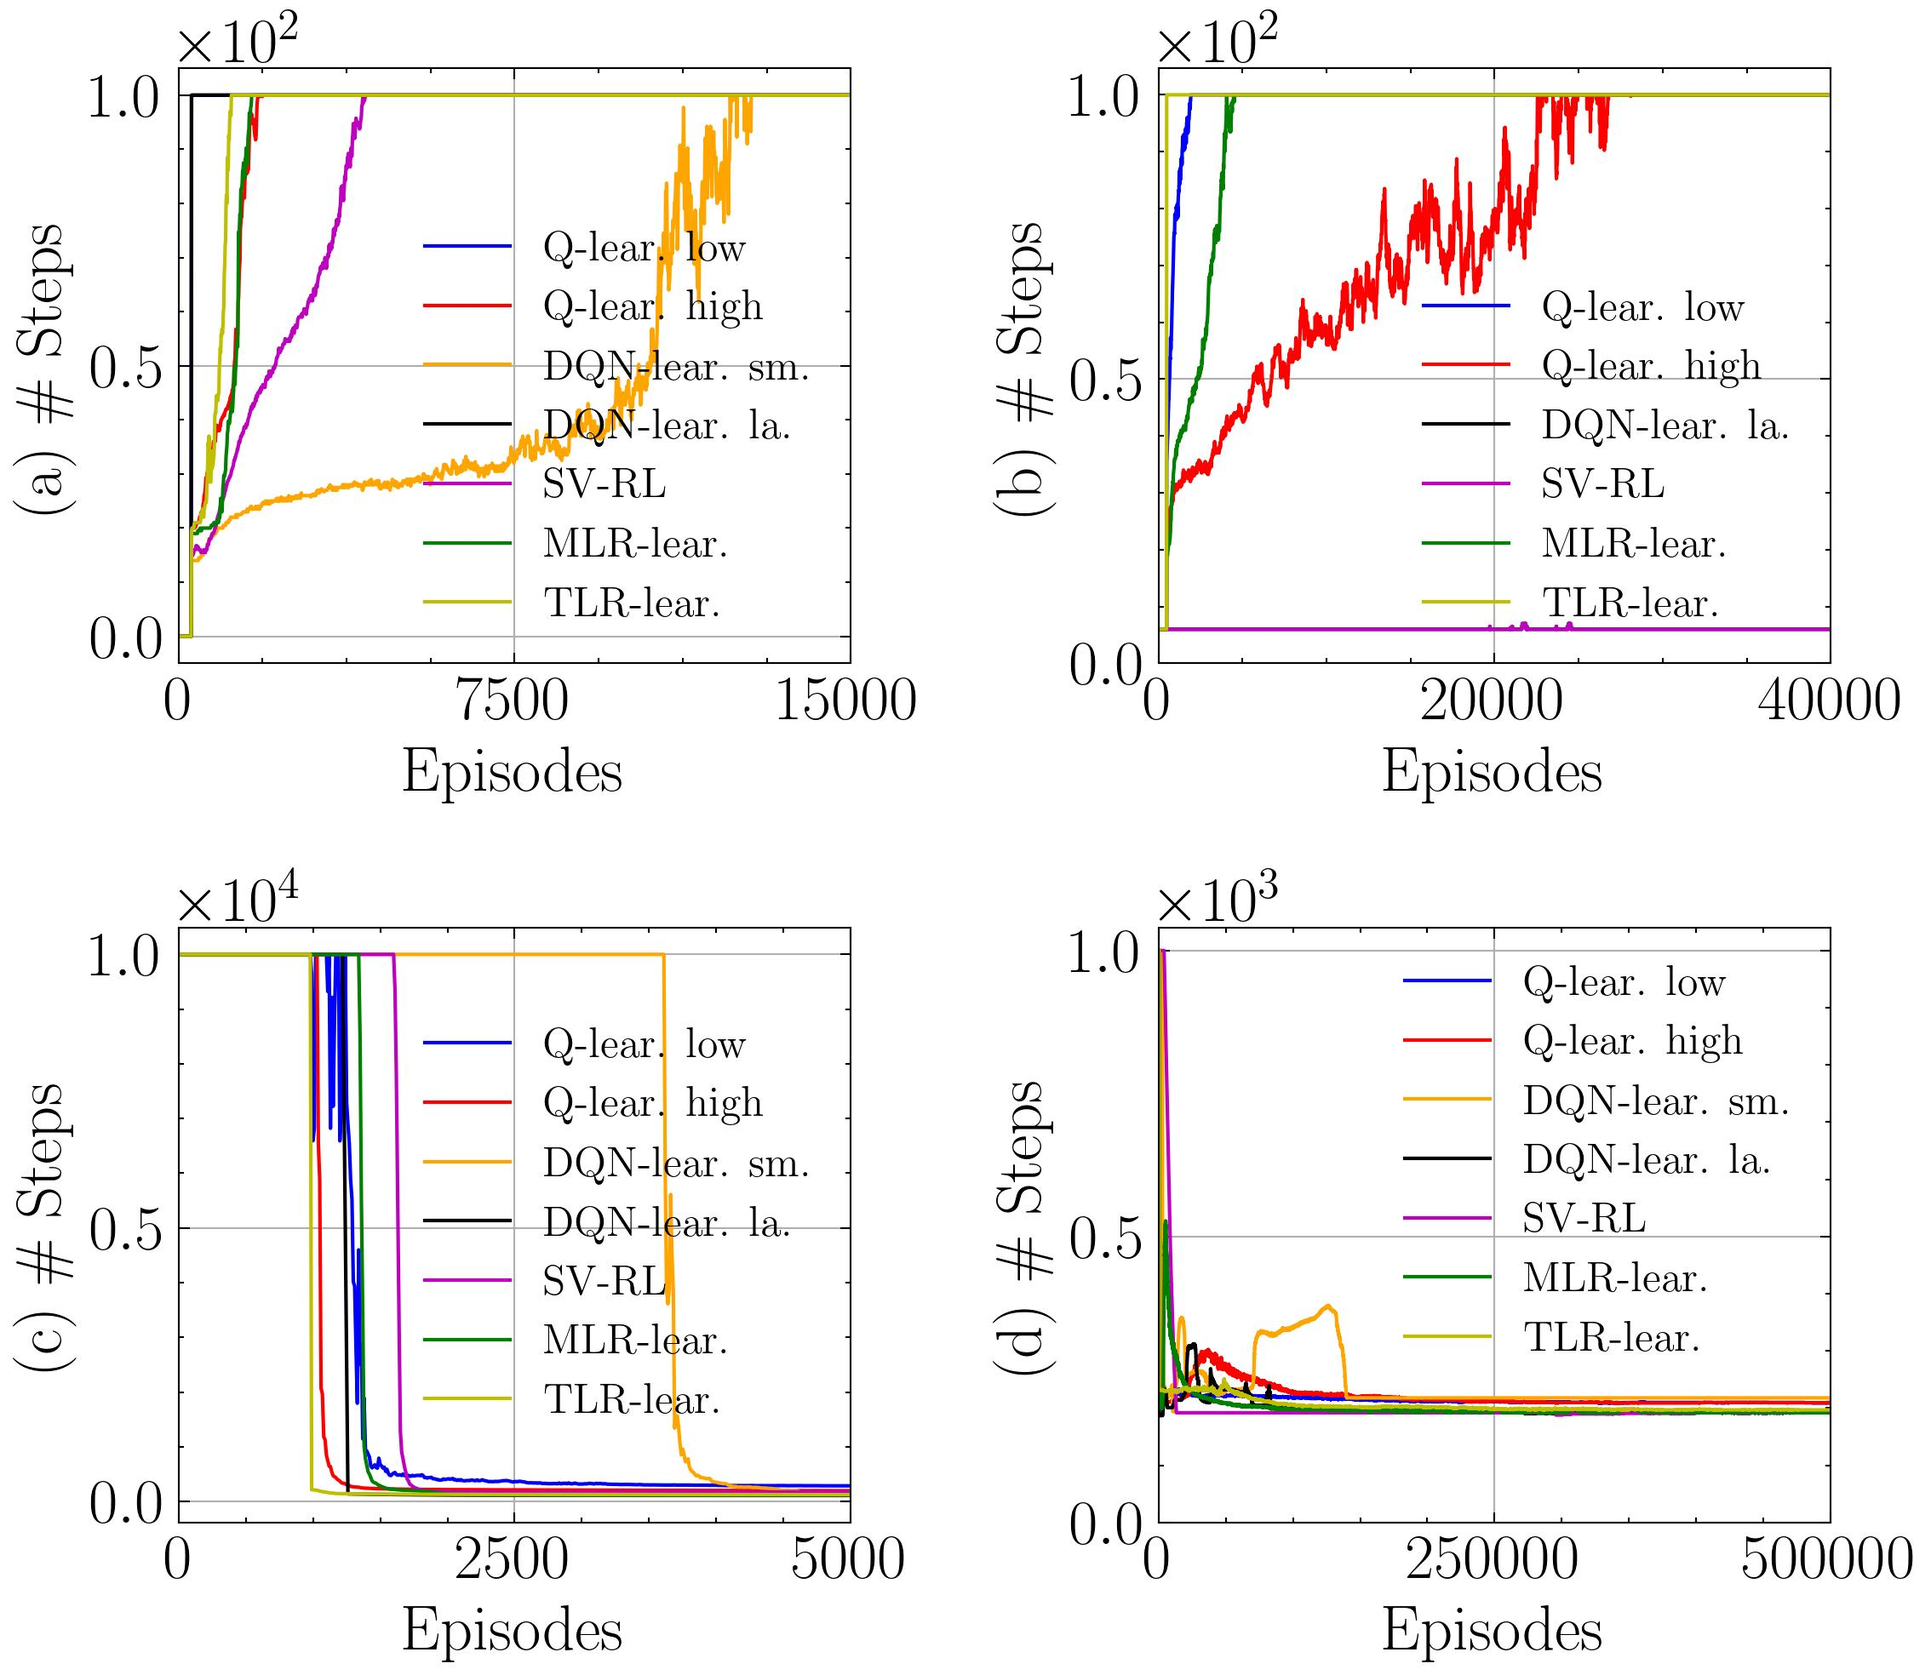
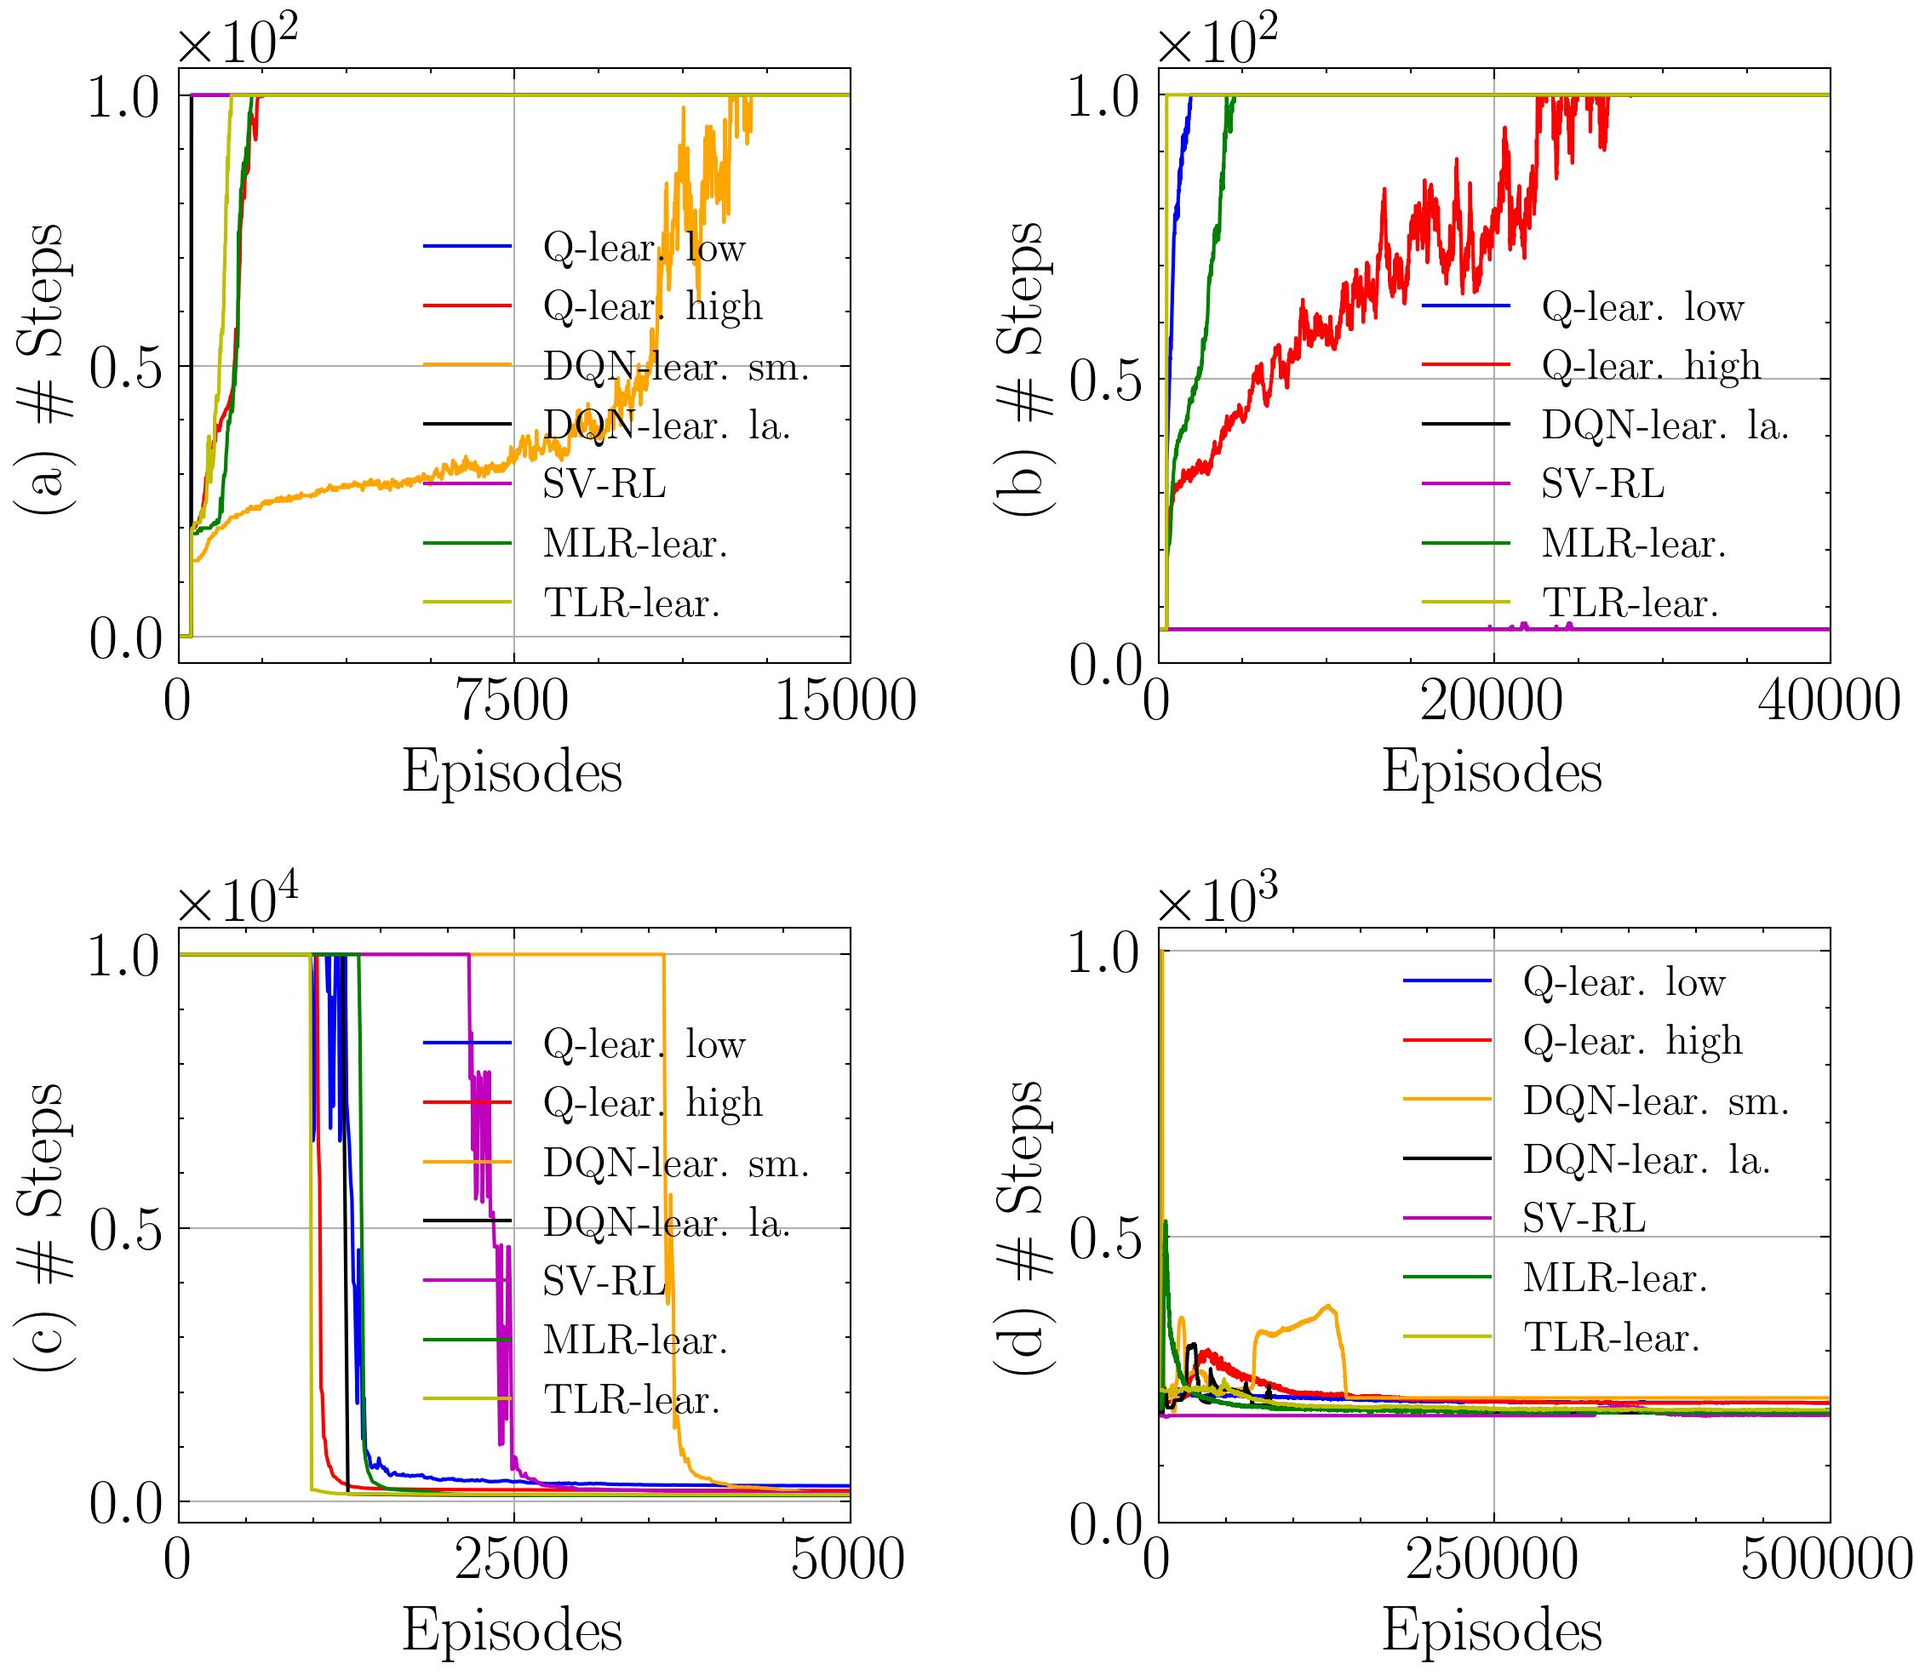
feature: added experiment on complexity

diff --git a/src/experiments/experiments.py b/src/experiments/experiments.py
@@ -194,6 +194,8 @@ class Experiment:
             update_freq=self.parameters['update_freq'],
             iter=self.parameters['iter'],
             k=self.parameters['k'],
+            alpha_mf=self.parameters['alpha_mf'],
+            beta_mf=self.parameters['beta_mf']
         ) for _ in range(self.nodes)]
 
     def run_experiment(self, learner):
@@ -359,6 +361,8 @@ class ExperimentScale:
             update_freq=self.parameters['update_freq'],
             iter=self.parameters['iter'],
             k=self.parameters['k'],
+            alpha_mf=self.parameters['alpha_mf'],
+            beta_mf=self.parameters['beta_mf']
         ) for _ in range(self.nodes)]
 
     def run_experiment(self, learner):
@@ -655,3 +659,176 @@ class ExperimentHighway:
 
         for path in os.listdir('nn_checkpoints'):
             os.remove(os.path.join('nn_checkpoints', path))
+
+
+class ExperimentComplexity:
+    def __init__(self, name, env):
+        self.env = env
+        self.name = name
+
+        with open(f'parameters/{name}', 'r') as f:
+            self.parameters = json.load(f)
+
+    def _get_discretizer(self, bucket_a):
+        states_structure = self.parameters.get('states_structure', None)
+        discrete_action = self.parameters.get('discrete_action', False)
+        return Discretizer(
+            min_points_states=self.parameters['min_points_states'],
+            max_points_states=self.parameters['max_points_states'],
+            bucket_states=self.parameters['bucket_states'],
+            min_points_actions=self.parameters['min_points_actions'],
+            max_points_actions=self.parameters['max_points_actions'],
+            bucket_actions=bucket_a,
+            states_structure=states_structure,
+            discrete_action=discrete_action
+        )
+
+    def _get_models(self):
+        if self.parameters['type'] == 'q-model':
+            return self._get_q_models()
+        elif self.parameters['type'] == 'mlr-model':
+            return self._get_mlr_models()
+        elif self.parameters['type'] == 'tlr-model':
+            return self._get_tlr_models()
+        elif self.parameters['type'] == 'dqn-model':
+            return self._get_dqn_models()
+        elif self.parameters['type'] == 'svrl-model':
+            return self._get_svrl_models()
+        return None
+
+    def _get_q_models(self):
+        return [QLearning(
+            env=self.env,
+            discretizer=self.discretizer,
+            episodes=self.parameters['episodes'],
+            max_steps=self.parameters['max_steps'],
+            epsilon=self.parameters['epsilon'],
+            alpha=self.parameters['alpha'],
+            gamma=self.parameters['gamma'],
+            decay=self.parameters['decay'],
+        )]
+
+    def _get_mlr_models(self):
+        return [MatrixLowRankLearning(
+            env=self.env,
+            discretizer=self.discretizer,
+            episodes=self.parameters['episodes'],
+            max_steps=self.parameters['max_steps'],
+            epsilon=self.parameters['epsilon'],
+            alpha=self.parameters['alpha'],
+            gamma=self.parameters['gamma'],
+            decay=self.parameters['decay'],
+            k=k
+        ) for k in self.parameters['k']]
+
+    def _get_tlr_models(self):
+        bias = self.parameters.get('bias', 0.0)
+        return [TensorLowRankLearning(
+            env=self.env,
+            discretizer=self.discretizer,
+            episodes=self.parameters['episodes'],
+            max_steps=self.parameters['max_steps'],
+            epsilon=self.parameters['epsilon'],
+            alpha=self.parameters['alpha'],
+            gamma=self.parameters['gamma'],
+            decay=self.parameters['decay'],
+            k=k,
+            bias=bias
+        ) for k in self.parameters['k']]
+
+    def _get_dqn_models(self):
+        models = []
+        for arch in self.parameters['arch']:
+            model_online = Mlp(
+                len(self.parameters['bucket_states']),
+                arch,
+                self.discretizer.n_actions[0]
+            )
+
+            model_target = Mlp(
+                len(self.parameters['bucket_states']),
+                arch,
+                self.discretizer.n_actions[0]
+            )
+
+            model_target.load_state_dict(model_online.state_dict())
+
+            if self.parameters['prioritized_experience']:
+                buffer = PrioritizedReplayBuffer(self.parameters['buffer_size'], 1.0)
+            else:
+                buffer = ReplayBuffer(self.parameters['buffer_size'])
+
+            models.append(DqnLearning(
+                env=self.env,
+                discretizer=self.discretizer,
+                model_online=model_online,
+                model_target=model_target,
+                buffer=buffer,
+                batch_size=self.parameters['batch_size'],
+                episodes=self.parameters['episodes'],
+                max_steps=self.parameters['max_steps'],
+                epsilon=self.parameters['epsilon'],
+                alpha=self.parameters['alpha'],
+                gamma=self.parameters['gamma'],
+                decay=self.parameters['decay'],
+                prioritized_experience=self.parameters['prioritized_experience'],
+            ))
+        return models
+
+    def _get_svrl_models(self):
+        models = []
+        for arch in self.parameters['arch']:
+            model_online = Mlp(
+                len(self.parameters['bucket_states']),
+                arch,
+                self.discretizer.n_actions[0]
+            )
+
+            model_target = Mlp(
+                len(self.parameters['bucket_states']),
+                arch,
+                self.discretizer.n_actions[0]
+            )
+
+            model_target.load_state_dict(model_online.state_dict())
+
+            if self.parameters['prioritized_experience']:
+                buffer = PrioritizedReplayBuffer(self.parameters['buffer_size'], 1.0)
+            else:
+                buffer = ReplayBuffer(self.parameters['buffer_size'])
+
+            models.append(Svrl(
+                env=self.env,
+                discretizer=self.discretizer,
+                model_online=model_online,
+                model_target=model_target,
+                buffer=buffer,
+                batch_size=self.parameters['batch_size'],
+                episodes=self.parameters['episodes'],
+                max_steps=self.parameters['max_steps'],
+                epsilon=self.parameters['epsilon'],
+                alpha=self.parameters['alpha'],
+                gamma=self.parameters['gamma'],
+                decay=self.parameters['decay'],
+                prioritized_experience=self.parameters['prioritized_experience'],
+                p_mask=self.parameters['p_mask'],
+                update_freq=self.parameters['update_freq'],
+                iter=self.parameters['iter'],
+                k=self.parameters['k'],
+                alpha_mf=self.parameters['alpha_mf'],
+                beta_mf=self.parameters['beta_mf']
+            ))
+        return models
+
+    def run_experiments(self):
+        buckets_a = self.parameters['bucket_actions']
+        if self.parameters['type'] != 'q-model':
+            buckets_a = [buckets_a]
+
+        for ba in buckets_a:
+            self.discretizer = self._get_discretizer(ba)
+            self.models= self._get_models()
+            for model in self.models:
+                time = model.measure_mean_runtime()
+                print(f"{self.name} - {time} seconds", flush=True)
+        print("----------------------------------------------------------------------", flush=True)

diff --git a/src/algorithms/svrl.py b/src/algorithms/svrl.py
@@ -1,4 +1,5 @@
 import numpy as np
+import time
 import torch
 
 from src.models.mf import MF
@@ -28,6 +29,8 @@ class Svrl:
         iter,
         writer=None,
         prioritized_experience=False,
+        alpha_mf=0.1,
+        beta_mf=0.01
     ):
 
         self.env = env
@@ -49,6 +52,8 @@ class Svrl:
         self.k = k
         self.update_freq = update_freq
         self.iter = iter
+        self.alpha_mf = alpha_mf
+        self.beta_mf = beta_mf
 
         self.training_steps = []
         self.training_cumulative_reward = []
@@ -91,10 +96,8 @@ class Svrl:
         q = q.detach().numpy()
         mask = np.random.rand(*q.shape) < self.p_mask
         q_sampled = q * mask
-        
-        # Pendulum 0.1 mask iterations 20 k 2
-        # Mountaincar 0.01 mask iterations 10 k 2
-        mf = MF(q_sampled, K=self.k, alpha=0.1, beta=0.01, iterations=10)
+
+        mf = MF(q_sampled, K=self.k, alpha=self.alpha_mf, beta=self.beta_mf, iterations=self.iter)
         _ = mf.train()
         return torch.tensor(mf.full_matrix(), dtype=torch.float32)
 
@@ -157,7 +160,7 @@ class Svrl:
                 state_tensor = torch.tensor(state, dtype=torch.float32, requires_grad=False)
                 state_prime_tensor = torch.tensor(state_prime, dtype=torch.float32, requires_grad=False)
                 self.buffer.push(state_tensor, action, state_prime_tensor, reward, done)
-                # pendulum = 0, mountaincar = 100
+
                 if self.iteration_idx % self.update_freq == 0 and step != 0:
                     self.update_model()
 
@@ -214,3 +217,21 @@ class Svrl:
 
         if self.writer:
             self.writer.flush()
+
+    def measure_mean_runtime(self):
+        state = self.env.reset()
+        action = self.choose_action(state)
+        state_prime, reward, done, _ = self.env.step(action)
+        if len(state_prime.shape) > 1:
+            state_prime = state_prime.flatten()
+
+        for _ in range(100):
+            state_tensor = torch.tensor(state, dtype=torch.float32, requires_grad=False)
+            state_prime_tensor = torch.tensor(state_prime, dtype=torch.float32, requires_grad=False)
+            self.buffer.push(state_tensor, action, state_prime_tensor, reward, done)
+
+        start_time = time.time()
+        for _ in range(100_000):
+            self.update_model()
+        end_time = time.time()
+        return end_time - start_time

diff --git a/8_computational_complexity.py b/8_computational_complexity.py
@@ -1,0 +1,42 @@
+import os
+
+from src.environments.pendulum import CustomPendulumEnv
+from src.environments.cartpole import CustomContinuousCartPoleEnv
+from src.environments.mountaincar import CustomContinuous_MountainCarEnv
+from src.environments.goddard import CustomGoddardEnv
+
+from src.experiments.experiments import ExperimentComplexity
+
+env_pendulum = CustomPendulumEnv()
+env_cartpole = CustomContinuousCartPoleEnv()
+env_mountaincar = CustomContinuous_MountainCarEnv()
+env_rocket = CustomGoddardEnv()
+
+
+N_NODES = 100
+
+
+if __name__ == "__main__":
+    # Pendulum
+    experiments = [f for f in os.listdir('parameters') if 'pendulum' in f and 'scale' in f]
+    for name in experiments:
+        experiment = ExperimentComplexity(name, env_pendulum)
+        experiment.run_experiments()
+    """
+    # Cartpole
+    experiments = [f for f in os.listdir('parameters') if 'cartpole' in f and 'scale' in f]
+    for name in experiments:
+        experiment = ExperimentComplexity(name, env_cartpole)
+        experiment.run_experiments()
+
+    # Mountaincar
+    experiments = [f for f in os.listdir('parameters') if 'mountaincar' in f and 'scale' in f]
+    for name in experiments:
+        experiment = ExperimentComplexity(name, env_mountaincar)
+        experiment.run_experiments()
+
+    # Rocket
+    experiments = [f for f in os.listdir('parameters') if 'rocket' in f and 'scale' in f]
+    for name in experiments:
+        experiment = ExperimentComplexity(name, env_rocket)
+        experiment.run_experiments()"""

diff --git a/src/algorithms/dqn_learning.py b/src/algorithms/dqn_learning.py
@@ -1,5 +1,6 @@
 import os
 import pickle
+import time
 
 import numpy as np
 import torch
@@ -225,3 +226,21 @@ class DqnLearning:
 
         if self.writer:
             self.writer.flush()
+
+    def measure_mean_runtime(self):
+        state = self.env.reset()
+        action = self.choose_action(state)
+        state_prime, reward, done, _ = self.env.step(action)
+        if len(state_prime.shape) > 1:
+            state_prime = state_prime.flatten()
+
+        for _ in range(100):
+            state_tensor = torch.tensor(state, dtype=torch.float32, requires_grad=False)
+            state_prime_tensor = torch.tensor(state_prime, dtype=torch.float32, requires_grad=False)
+            self.buffer.push(state_tensor, action, state_prime_tensor, reward, done)
+
+        start_time = time.time()
+        for _ in range(100_000):
+            self.update_model()
+        end_time = time.time()
+        return end_time - start_time

diff --git a/src/algorithms/tlr_learning.py b/src/algorithms/tlr_learning.py
@@ -1,4 +1,5 @@
 import numpy as np
+import time
 import tensorly as tl
 
 
@@ -183,3 +184,16 @@ class TensorLowRankLearning:
                 self.run_training_episode()
 
         self.evaluate_final_policy()
+
+    def measure_mean_runtime(self):
+        state = self.env.reset()
+        action = self.choose_action(state)
+        state_prime, reward, done, _ = self.env.step(action)
+        if len(state_prime.shape) > 1:
+                state_prime = state_prime.flatten()
+
+        start_time = time.time()
+        for _ in range(100_000):
+            self.update_q_matrix(state, action, state_prime, reward, done)
+        end_time = time.time()
+        return end_time - start_time  

diff --git a/src/algorithms/mlr_learning.py b/src/algorithms/mlr_learning.py
@@ -1,4 +1,5 @@
 import numpy as np
+import time
 
 
 class MatrixLowRankLearning:
@@ -161,3 +162,14 @@ class MatrixLowRankLearning:
                 self.run_training_episode()
 
         self.evaluate_final_policy()
+
+    def measure_mean_runtime(self):
+        state = self.env.reset()
+        action = self.choose_action(state)
+        state_prime, reward, done, _ = self.env.step(action)
+
+        start_time = time.time()
+        for _ in range(100_000):
+            self.update_q_matrix(state, action, state_prime, reward, done)
+        end_time = time.time()
+        return end_time - start_time  

diff --git a/src/algorithms/q_learning.py b/src/algorithms/q_learning.py
@@ -1,4 +1,5 @@
 import numpy as np
+import time
 
 
 class QLearning:
@@ -127,3 +128,14 @@ class QLearning:
                 self.run_training_episode()
 
         self.evaluate_final_policy()
+
+    def measure_mean_runtime(self):
+        state = self.env.reset()
+        action = self.choose_action(state)
+        state_prime, reward, done, _ = self.env.step(action)
+
+        start_time = time.time()
+        for _ in range(100_000):
+            self.update_q_matrix(state, action, state_prime, reward, done)
+        end_time = time.time()
+        return end_time - start_time    
